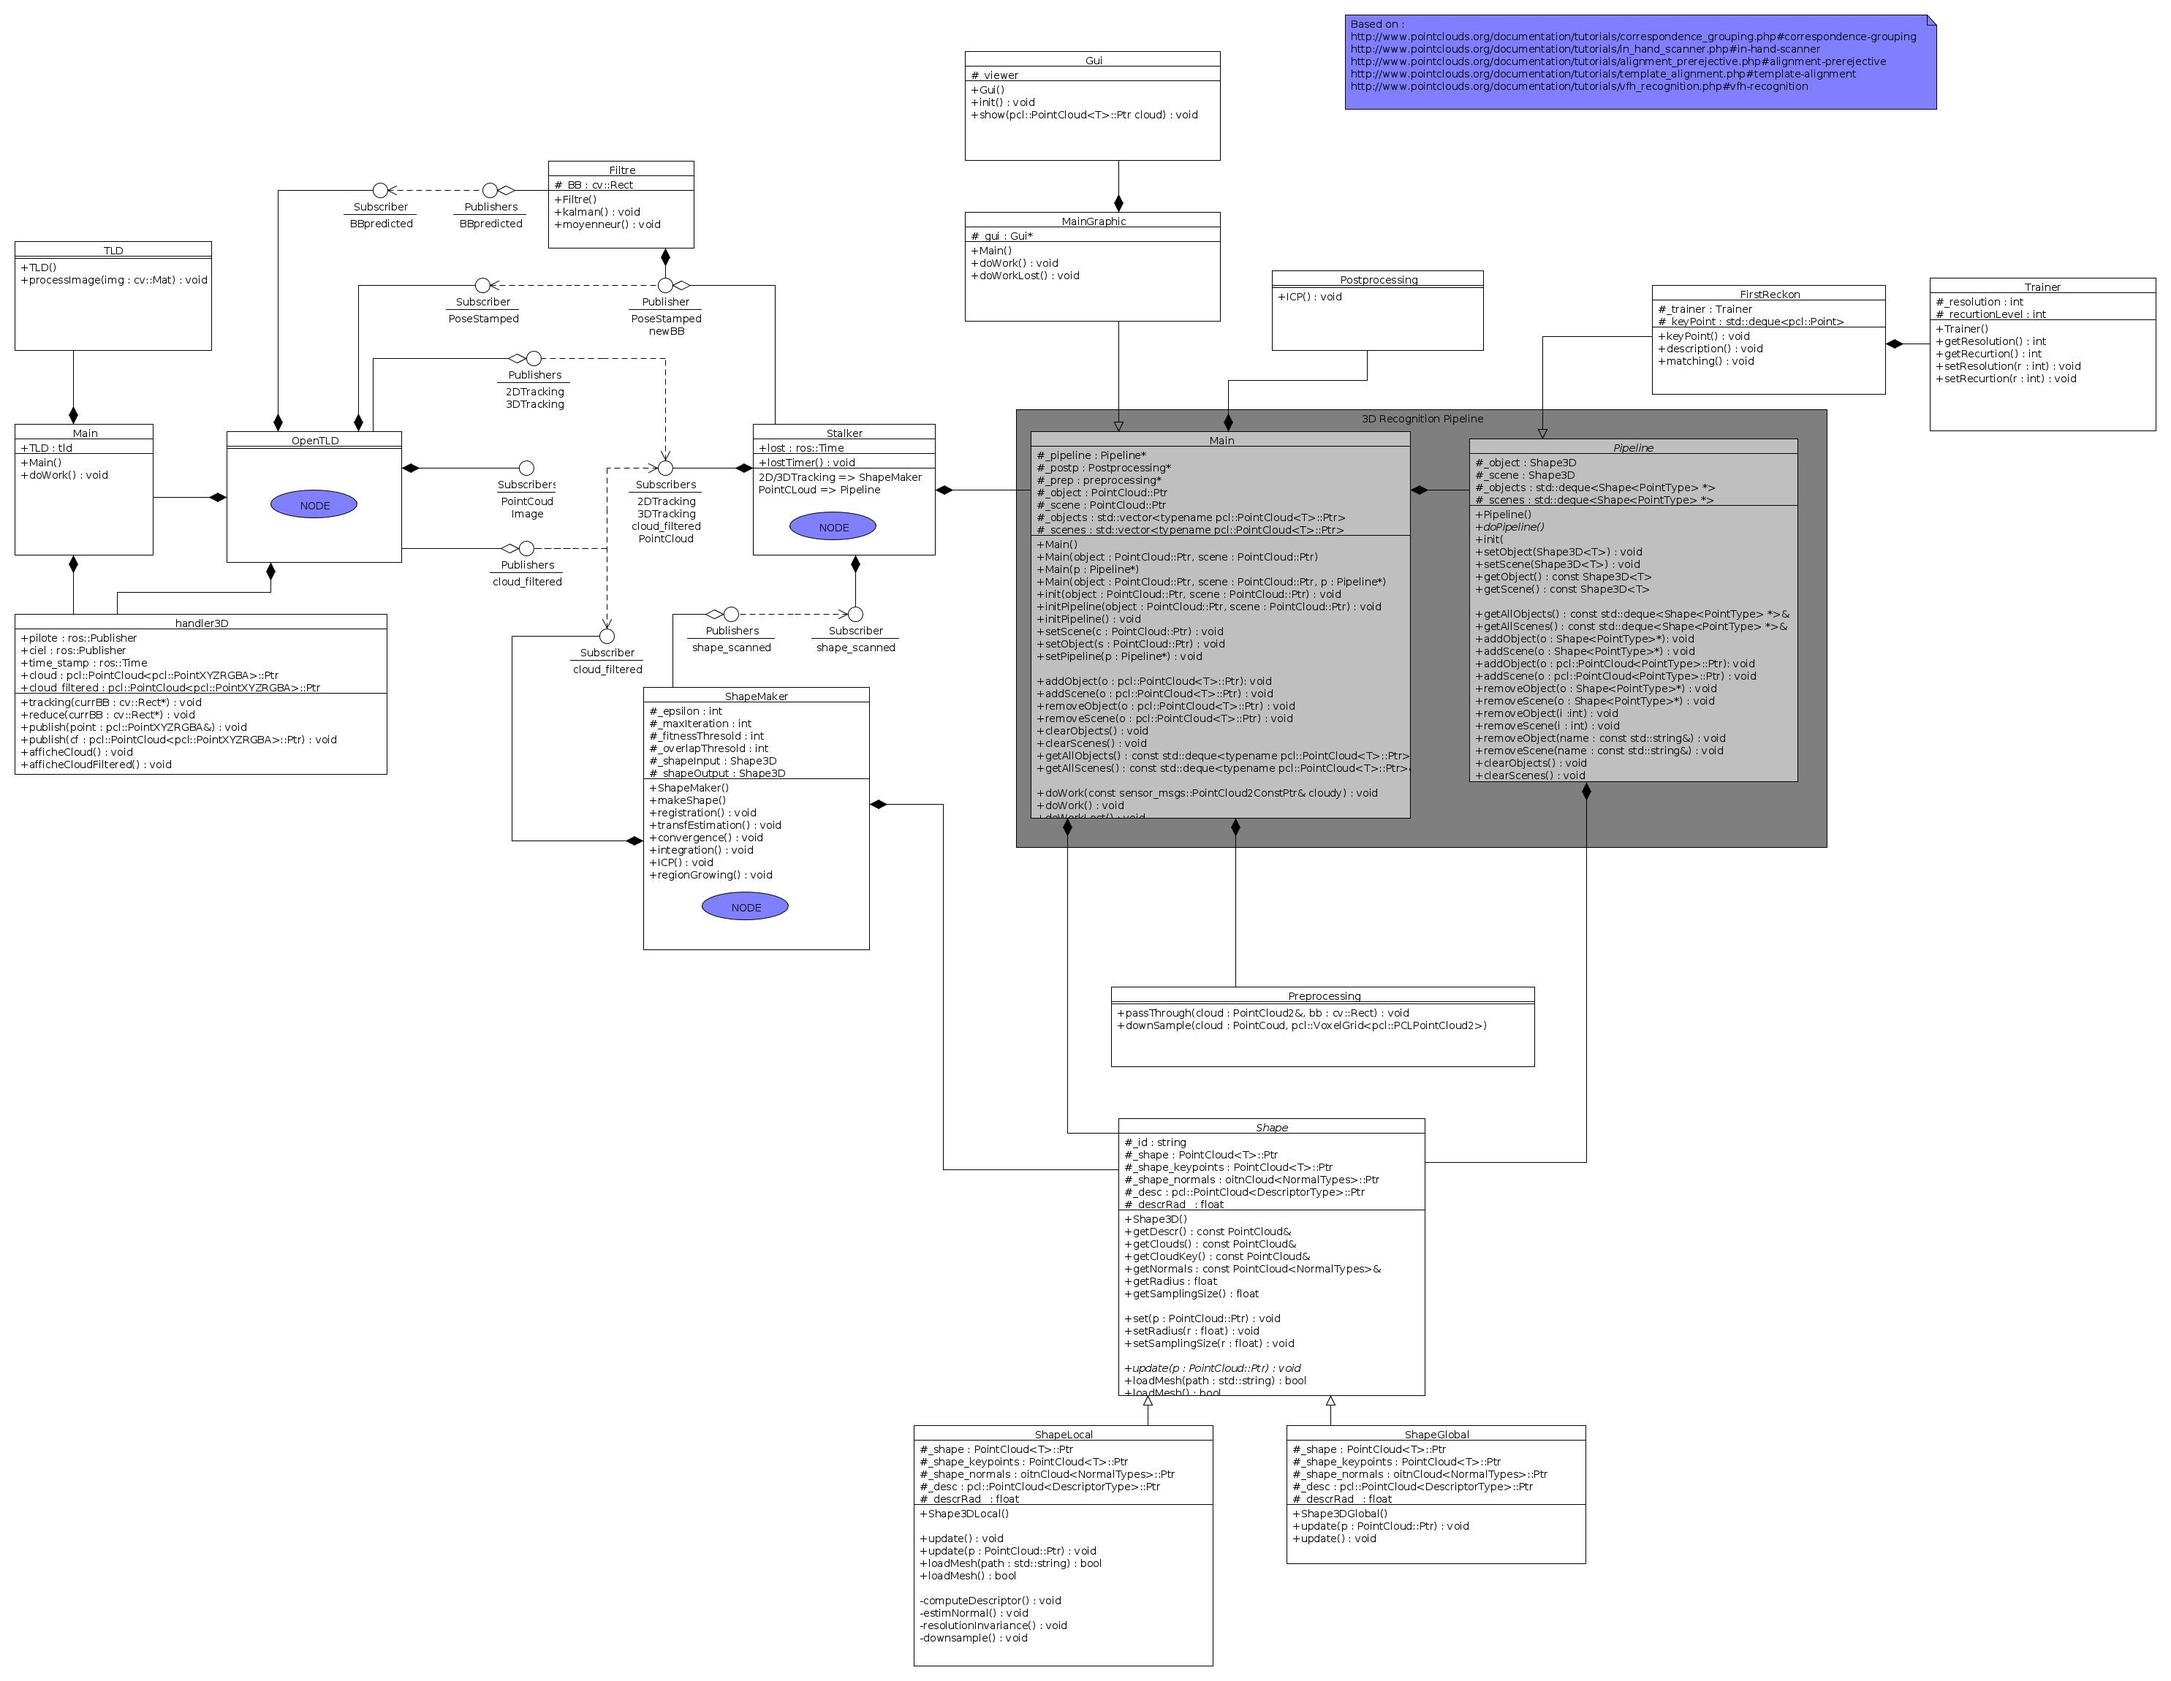
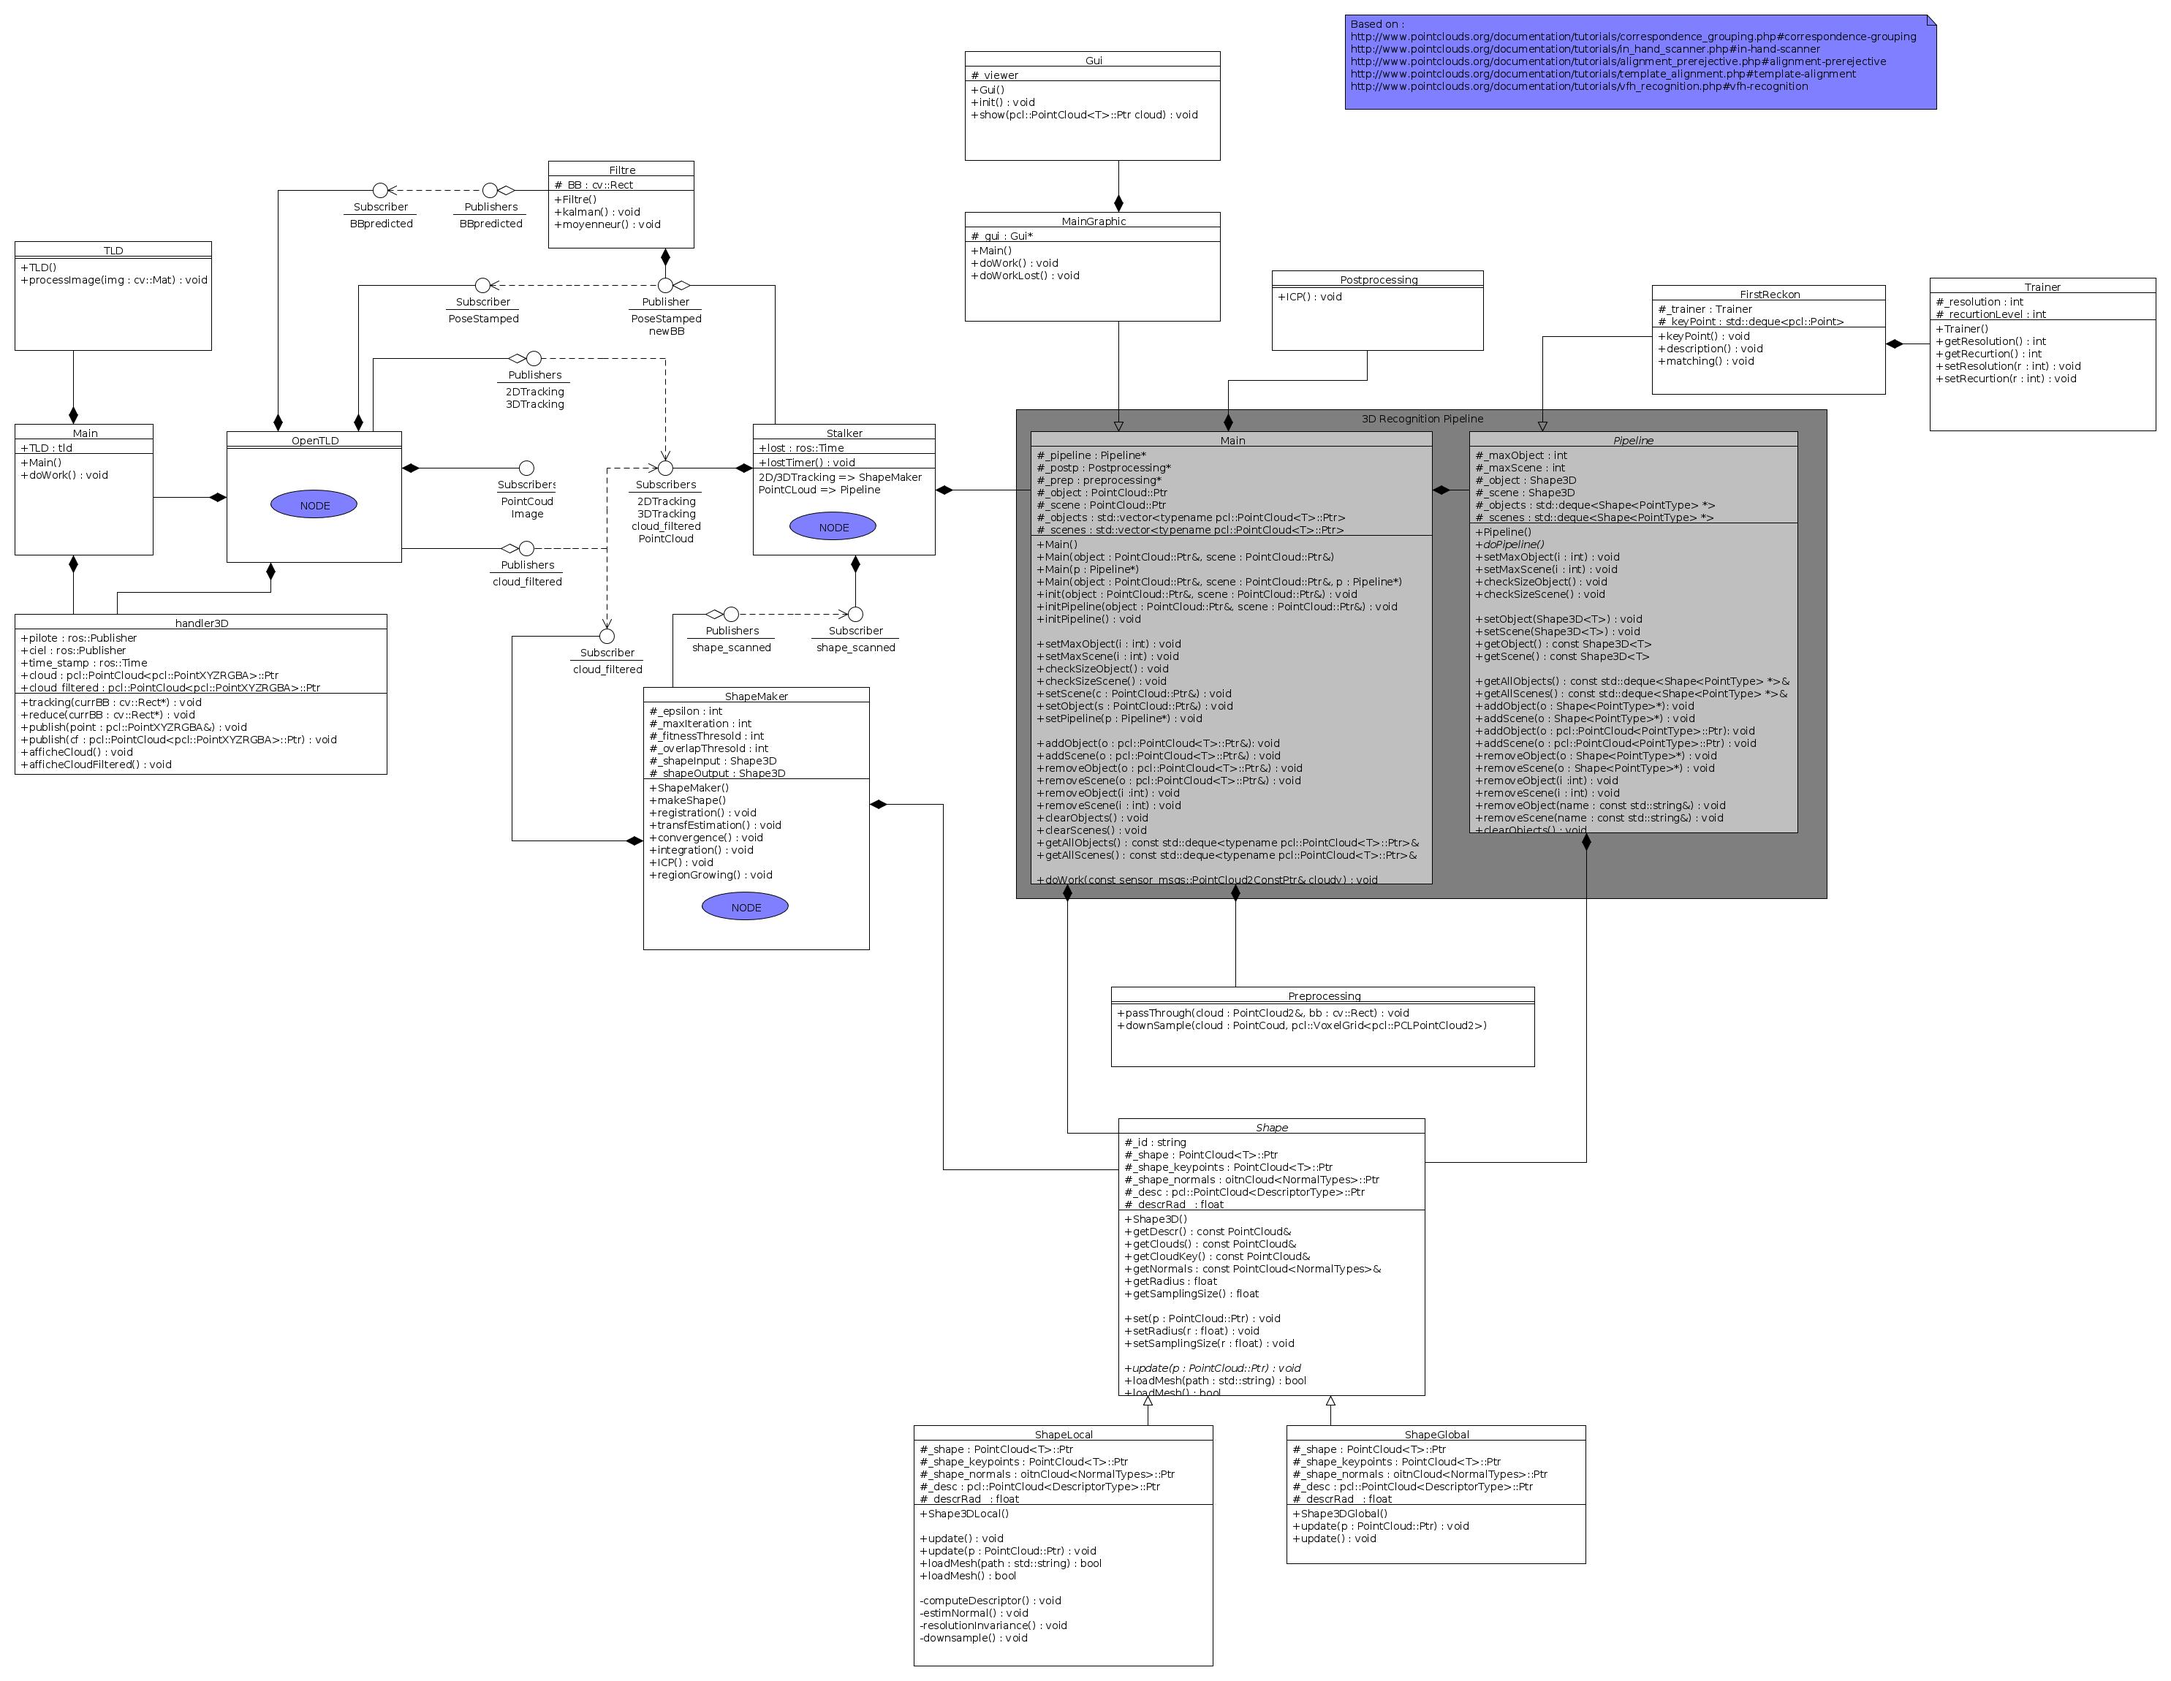
buffered the vectors

Changed region(s): [[0.4646, 0.247, 0.8673, 0.5557]]

diff --git a/stalker/include/stalker/reckon_pipeline/Main.hpp b/stalker/include/stalker/reckon_pipeline/Main.hpp
@@ -14,6 +14,8 @@
 template <typename T>
 class Main{
 	protected : 
+	int _maxObject;
+	int _maxScene;
 	typename pcl::PointCloud<T>::Ptr _scene; //Last Scene receive
 	typename pcl::PointCloud<T>::Ptr _object; //Last Object receive
 	
@@ -26,7 +28,7 @@ class Main{
 	public : 
 	
 	/********DEFAULT CONSTRCTOR***********/
-	Main() : 
+	Main() : _maxObject(10), _maxScene(20),
 	_scene(new pcl::PointCloud<T>()), 
 	_object(new pcl::PointCloud<T>()), 
 	_pipeline(new CorrespGrouping<T>(new ShapeLocal<T>("object"), new ShapeLocal<T>("scene"))) 
@@ -35,7 +37,7 @@ class Main{
 	}
 
 	/********you have the Clouds CONSTRCTOR***********/
-	Main(typename pcl::PointCloud<T>::Ptr object, typename pcl::PointCloud<T>::Ptr scene) : 
+	Main(typename pcl::PointCloud<T>::Ptr object, typename pcl::PointCloud<T>::Ptr scene) : _maxObject(10), _maxScene(20),
 	_scene(scene), 
 	_object(object), 
 	_pipeline(new CorrespGrouping<T>(new ShapeLocal<T>("object"), new ShapeLocal<T>("scene")))
@@ -45,7 +47,7 @@ class Main{
 	}
 	
 	/********you have the Pipeline CONSTRCTOR***********/
-	Main(Pipeline<T>* p) :
+	Main(Pipeline<T>* p) : _maxObject(10), _maxScene(20),
 	_scene(new pcl::PointCloud<T>()), 
 	_object(new pcl::PointCloud<T>()), 
 	_pipeline(p)
@@ -54,7 +56,7 @@ class Main{
 	}
 
 	/********You have everything CONSTRCTOR***********/
-	Main(typename pcl::PointCloud<T>::Ptr object, typename pcl::PointCloud<T>::Ptr scene, Pipeline<T>* p) : 
+	Main(typename pcl::PointCloud<T>::Ptr object, typename pcl::PointCloud<T>::Ptr scene, Pipeline<T>* p) : _maxObject(10), _maxScene(20),
 	_scene(scene), 
 	_object(object), 
 	_pipeline(p)
@@ -91,6 +93,12 @@ class Main{
 	}
 	
 	//Accesseur
+	virtual void setMaxObject(int i){_maxObject=i;}
+	virtual void setMaxScene(int i){_maxScene=i;}
+	
+	virtual void checkSizeObject();
+	virtual void checkSizeScene();
+	
 	typename pcl::PointCloud<T>::Ptr getCloud(){return _scene;}
 	typename pcl::PointCloud<T>::Ptr getShape(){return _object;}
 	Pipeline<T>* getPipeline(){return _pipeline;}
@@ -100,14 +108,15 @@ class Main{
 	void setPipeline(Pipeline<T>* p){delete _pipeline; _pipeline=p;}
 	
 	//New interface
-	void addObject(typename pcl::PointCloud<T>::Ptr& c){_objects.push_back(c);_pipeline->addObject(c);}
-	void addScene(typename pcl::PointCloud<T>::Ptr& c){
-	_scenes.push_back(c);
-	_pipeline->addScene(c);
+	void addObject(typename pcl::PointCloud<T>::Ptr& c){_objects.push_back(c);checkSizeObject();_pipeline->addObject(c);}
+	void addScene(typename pcl::PointCloud<T>::Ptr& c){_scenes.push_back(c);checkSizeScene();_pipeline->addScene(c);
 		
 	}
 	void removeObject(typename pcl::PointCloud<T>::Ptr& c);
 	void removeScene(typename pcl::PointCloud<T>::Ptr& c);
+	void removeObject(int i);
+	void removeScene(int i);
+	
 	void clearObjects();
 	void clearScenes();
 	const std::vector<typename pcl::PointCloud<T>::Ptr>& getAllObjects(){return _objects;}
@@ -117,6 +126,30 @@ class Main{
 	virtual void doWork();
 	
 };
+
+
+template <typename T>
+inline void Main<T>::checkSizeObject()
+{
+	if(_objects.size()>_maxObject){
+		while(_objects.size()>_maxObject){
+			removeObject(0);
+		}
+	}
+}
+
+template <typename T>
+inline void Main<T>::checkSizeScene()
+{
+	if(_scenes.size()>_maxScene){
+		while(_scenes.size()>_maxScene){
+			removeScene(0);
+		}
+	}
+}
+
+
+
 template <typename T>
 inline void Main<T>::setScene(typename pcl::PointCloud<T>::Ptr& c){
 	this->_scene=c; 
@@ -155,6 +188,24 @@ inline void Main<T>::removeScene(typename pcl::PointCloud<T>::Ptr& c){
 }
 
 template <typename T>
+inline void Main<T>::removeObject(int i){
+	std::cout<<"remove object n "<< i << "with "<< _objects.size()<< std::endl;
+	if(size_t(i)<_objects.size()){
+		typename std::vector<typename pcl::PointCloud<T>::Ptr>::iterator it=_objects.begin()+i;
+		_objects.erase(it);
+	}
+}
+
+template <typename T>
+inline void Main<T>::removeScene(int i){
+	std::cout<<"remove scene n "<< i << "with "<< _scenes.size()<< std::endl;
+	if(size_t(i)<_scenes.size()){
+		typename std::vector<typename pcl::PointCloud<T>::Ptr>::iterator it=_scenes.begin()+i;
+		_scenes.erase(it);
+	}
+}
+
+template <typename T>
 inline void Main<T>::clearObjects(){
 	for(typename std::vector<typename pcl::PointCloud<T>::Ptr>::iterator it = _objects.begin(); it!=_objects.end();){
 		_objects.erase(it);
@@ -169,6 +220,10 @@ inline void Main<T>::clearScenes(){
 }
 
 /**********************DO WORK FUNCTIONS***************/
+
+/*Function to modify in order to use one "interface" or the other*/
+
+
 template <typename T>
 inline void Main<T>::doWork(const sensor_msgs::PointCloud2ConstPtr& cloudy){
 	pcl::fromROSMsg(*cloudy, *_scene);

diff --git a/stalker/include/stalker/reckon_pipeline/Pipeline.hpp b/stalker/include/stalker/reckon_pipeline/Pipeline.hpp
@@ -12,14 +12,16 @@
 template <typename PointType>
 class Pipeline{
 	
-	public : 
+	protected : 
+	int _maxObject;
+	int _maxScene;
 	Shape<PointType>* _object; //Don't need because it take a Shape* from main.
 	Shape<PointType>* _scene; // Need to be initialise because it takes a Cloud in argument.
 	std::vector<Shape<PointType> *> _objects; //Deck of all objects to compare
 	std::vector<Shape<PointType> *> _scenes; //Deck of all scene to compare
 	
 	public : 
-	Pipeline(Shape<PointType>* p, Shape<PointType>* p2) : _object(p), _scene(p2){}; //FREE PROBLEM
+	Pipeline(Shape<PointType>* p, Shape<PointType>* p2) : _maxObject(10), _maxScene(20), _object(p), _scene(p2){}; //FREE PROBLEM
 	virtual ~Pipeline(){
 		std::cout << "delete Pipeline"<<std::endl;
 		delete _object;
@@ -31,7 +33,12 @@ class Pipeline{
 		
 	}
 	virtual void doPipeline() = 0;
-
+	virtual void setMaxObject(int i){_maxObject=i;}
+	virtual void setMaxScene(int i){_maxScene=i;}
+	
+	virtual void checkSizeObject();
+	virtual void checkSizeScene();
+	
 	virtual void setObject(Shape<PointType>* o){delete _object; _object=o;}
 	virtual void setScene(Shape<PointType>* o){delete _scene; _scene=o;}
 	virtual void setObject(typename pcl::PointCloud<PointType>::Ptr& obj);
@@ -79,6 +86,27 @@ class Pipeline{
 };
 
 template <typename T>
+inline void Pipeline<T>::checkSizeObject()
+{
+	if(_objects.size()>_maxObject){
+		while(_objects.size()>_maxObject){
+			removeObject(0);
+		}
+	}
+}
+
+template <typename T>
+inline void Pipeline<T>::checkSizeScene()
+{
+	if(_scenes.size()>_maxScene){
+		while(_scenes.size()>_maxScene){
+			removeScene(0);
+		}
+	}
+}
+
+
+template <typename T>
 inline void Pipeline<T>::setScene(typename pcl::PointCloud<T>::Ptr& cloud)
 {
 	this->_scene->update(cloud);
@@ -93,11 +121,13 @@ inline void Pipeline<T>::setObject(typename pcl::PointCloud<T>::Ptr& obj)
 template <typename PointType>
 inline void Pipeline<PointType>::addObject(Shape<PointType>* o){
 	_objects.push_back(o);
+	checkSizeObject();
 	
 }
 template <typename PointType>
 inline void Pipeline<PointType>::addScene(Shape<PointType>* o){
 	_scenes.push_back(o);
+	checkSizeScene();
 }
 
 template <typename PointType>
@@ -106,6 +136,7 @@ inline void Pipeline<PointType>::addObject(typename pcl::PointCloud<PointType>::
 	name=name+boost::lexical_cast<std::string>( _scenes.size() );
 	_objects.push_back(new ShapeLocal<PointType>(name));
 	_objects[_objects.size()-1]->update(o);
+	checkSizeObject();
 }
 
 template <typename PointType>
@@ -114,6 +145,7 @@ inline void Pipeline<PointType>::addScene(typename pcl::PointCloud<PointType>::P
 	name=name+boost::lexical_cast<std::string>( _scenes.size() );
 	_scenes.push_back(new ShapeLocal<PointType>(name));
 	_scenes[_scenes.size()-1]->update(o);
+	checkSizeScene();
 }
 
 template <typename PointType>
@@ -180,7 +212,12 @@ inline void Pipeline<PointType>::removeObject(int i){
 	
 template <typename PointType>
 inline void Pipeline<PointType>::removeScene(int i){
-
+	std::cout<<"remove scene n "<< i << "with "<< _scenes.size()<< std::endl;
+	if(size_t(i)<_scenes.size()){
+		typename std::vector<Shape<PointType>*>::iterator it=_scenes.begin()+i;
+		delete(*it);
+		_scenes.erase(it);
+	}
 }
 
 template <typename PointType>

diff --git a/stalker/src/Test/main.cpp b/stalker/src/Test/main.cpp
@@ -39,6 +39,8 @@ BOOST_AUTO_TEST_CASE(trying)
 	///////////////////////////////////////////////
 	//MEMORY LEAKS SOMEWHERE
 	Main<pcl::PointXYZRGBA> mainly; //Mem leak
+	mainly.setMaxObject(5);
+	mainly.setMaxScene(2);
 	mainly.addObject(cloud);
 	mainly.addObject(cloud);
 	mainly.addObject(cloud);
@@ -46,12 +48,11 @@ BOOST_AUTO_TEST_CASE(trying)
 	mainly.addScene(cloud);
 	mainly.addScene(cloud);
 	mainly.addScene(cloud);
-	
-	BOOST_CHECK_EQUAL(mainly.getAllObjects().size(),1);
+	BOOST_CHECK_EQUAL(mainly.getAllObjects().size(),3);
 	mainly.addObject(cloud);// <- Doesn't work because of the name...
-	BOOST_CHECK_EQUAL(mainly.getPipeline()->getAllObjects().size(),3);
+	BOOST_CHECK_EQUAL(mainly.getPipeline()->getAllObjects().size(),4);
 	BOOST_CHECK_EQUAL(mainly.getPipeline()->getAllScenes().size(),4);
-	BOOST_CHECK_EQUAL(mainly.getAllScenes().size(),1);
+	BOOST_CHECK_EQUAL(mainly.getAllScenes().size(),2);
 	
 	std::cout<<"Doing Work"<<std::endl;
 	sensor_msgs::PointCloud2Ptr smp(new sensor_msgs::PointCloud2);
@@ -60,7 +61,7 @@ BOOST_AUTO_TEST_CASE(trying)
 	mainly.doWork(smp);
 	//Don't work
 	mainly.removeObject(cloud);
-	BOOST_CHECK_EQUAL(mainly.getAllScenes().size(),6); //Size 2
+	BOOST_CHECK_EQUAL(mainly.getAllScenes().size(),2); //Size 2
 	BOOST_CHECK_EQUAL(mainly.getPipeline()->getAllScenes().size(),6); //Size 2
 	
 	BOOST_CHECK_EQUAL(mg.getAllScenes().size(),0); //Size 0

diff --git a/stalker/src/Test/coresgroupt.cpp b/stalker/src/Test/coresgroupt.cpp
@@ -18,6 +18,8 @@ BOOST_AUTO_TEST_CASE(trying)
 	
 	
 	CorrespGrouping<pcl::PointXYZRGBA> cg(new ShapeLocal<pcl::PointXYZRGBA>("bob1"), new ShapeLocal<pcl::PointXYZRGBA>("bob2"));
+	cg.setMaxObject(2);
+	cg.setMaxScene(4);
 	//cg.addObject(new ShapeLocal<pcl::PointXYZRGBA>("bob2")); //Problem with this declaration oO
 	//BOOST_CHECK_EQUAL(cg.getAllObjects().size(),1);
 	
@@ -34,12 +36,16 @@ BOOST_AUTO_TEST_CASE(trying)
 	cg.addObject(cloud);
 	cg.addObject(cloud);
 	
+	BOOST_CHECK_EQUAL(cg.getAllObjects().size(), 2);
+	
 	std::cout<<"lest add2"<<std::endl;
 	cg.addScene(cloud);
 	cg.addScene(cloud);
 	cg.addScene(cloud);
 	cg.addScene(cloud);
 	cg.addScene(cloud);
+	
+	BOOST_CHECK_EQUAL(cg.getAllScenes().size(), 4);
 	
 	std::cout<<"First print"<<std::endl;
 	cg.print();
